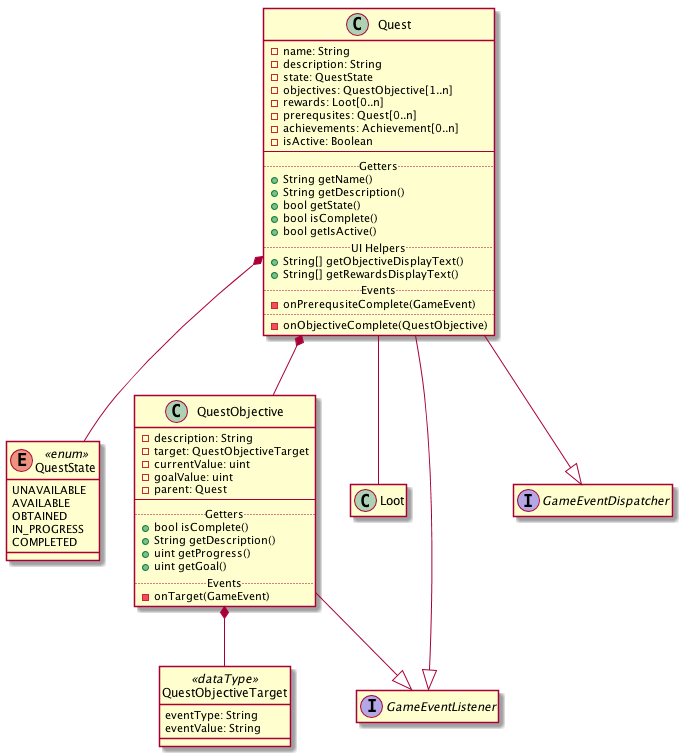
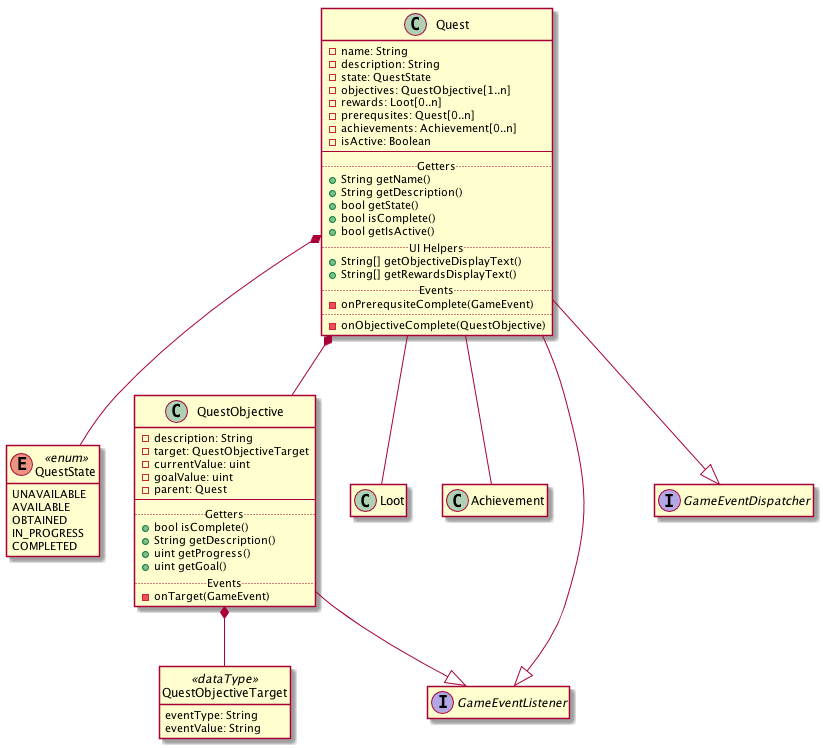
Updated UML

diff --git a/README.md b/README.md
@@ -65,7 +65,7 @@ When a quest is available, it will appear in-game for the Player. When a player 
 
 Whenever a `QuestObjective` recieves a matching game event, it will increment `currentValue`. If `currentValue` matches or exceeds `goalValue`, it will alert its associated quest by calling `parent.onObjectiveComplete()`.
 
-Whenever `onObjectiveComplete()` is called, the `Quest` it will check `isComplete()` for each objective in `objectives`. If all objectives are complete, it will dispatch a game event to notify all quests that it has been completed, and transition to `COMPLETE`.
+Whenever `onObjectiveComplete()` is called, the `Quest` it will check `isComplete()` for each objective in `objectives`. If all objectives are complete, it will dispatch a game event to notify all quests that it has been completed, update each achievement in `achievements` and transition to `COMPLETE`.
 
 #### Becoming Available
 
@@ -123,6 +123,16 @@ The global database provides all information regarding the global values of the 
 |---|----|------|--------|
 |PK|UUID|questStateId||
 ||VARCHAR|name||
+
+#### QuestAchievements
+
+`QuestAchievements` provides mapping between quests and achievements.
+
+|Key|Type|Column|Relation|
+|---|----|------|--------|
+|PK |UUID|questAchievementId||
+|FK1|UUID|quest|`Quests.questId`|
+|FK2|UUID|achievement|`Achievement.achievementId` (_from Requirements_)|
 
 ### Character Database
 
